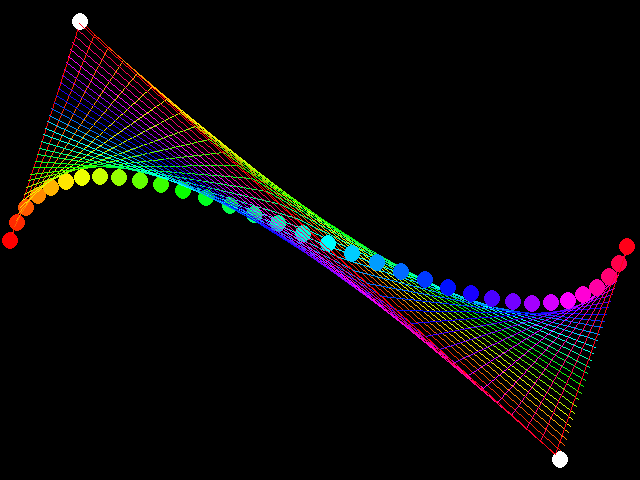
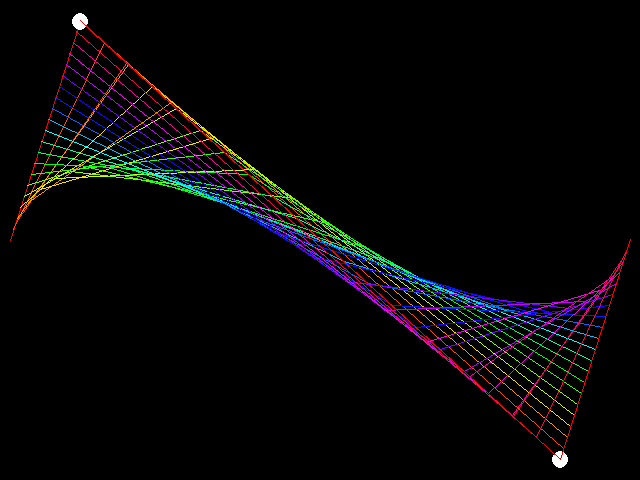
bezline: Draw more lines and fewer circles
Draw the cubic bezier's tangent lines. This makes the viewport very
busy, so draw fewer lines overall so we can see the individual lines
better. Remove the cubic bezier points. Let's use our imaginations to
see the cubic curve.

Changed region(s): [[0.0, 0.0625, 1.0, 0.9375]]

diff --git a/apps/bezline/bezline.c b/apps/bezline/bezline.c
@@ -16,6 +16,8 @@
 #include <stdio.h>
 #include <sys/time.h>
 
+#define DRAW_CIRCLES 0
+
 static float lerp(float a, float b, float t)
 {
     /* Linear interpolation */
@@ -59,7 +61,7 @@ static void linearBezier(float *x, float *y, float px[2], float py[3], float t)
 void BezLines(int frame)
 {
     float t;
-    const float delta = 0.03f;
+    const float delta = 0.05f;
     float px[4];
     float py[4];
     float x[4];
@@ -87,8 +89,10 @@ void BezLines(int frame)
     {
         float u[2];
         float v[2];
+#if DRAW_CIRCLES
         float a;
         float b;
+#endif
 
         /* Equivalent to one quadradic bezier */
         linearBezier(&x[0], &y[0], &px[0], &py[0], t);
@@ -103,8 +107,10 @@ void BezLines(int frame)
         v[1] = lerp(y[2], y[3], t);
 
         /* Equivalent to a cubic bezier */
+#if DRAW_CIRCLES
         a = lerp(u[0], u[1], t);
         b = lerp(v[0], v[1], t);
+#endif
 
         /* Draw control points */
         SetColor(COLOR_WHITE);
@@ -113,9 +119,12 @@ void BezLines(int frame)
 
         /* Draw the curves */
         SetColorHSV(wrapf(t * 256.0f, 256.0f), 255, 255);
+#if DRAW_CIRCLES
         FillCircle(a, b, 8);
+#endif
         DrawLine(x[0], y[0], x[1], y[1]);
         DrawLine(x[2], y[2], x[3], y[3]);
+        DrawLine(u[0], v[0], u[1], v[1]);
     }
 
     ShowGraphics();
